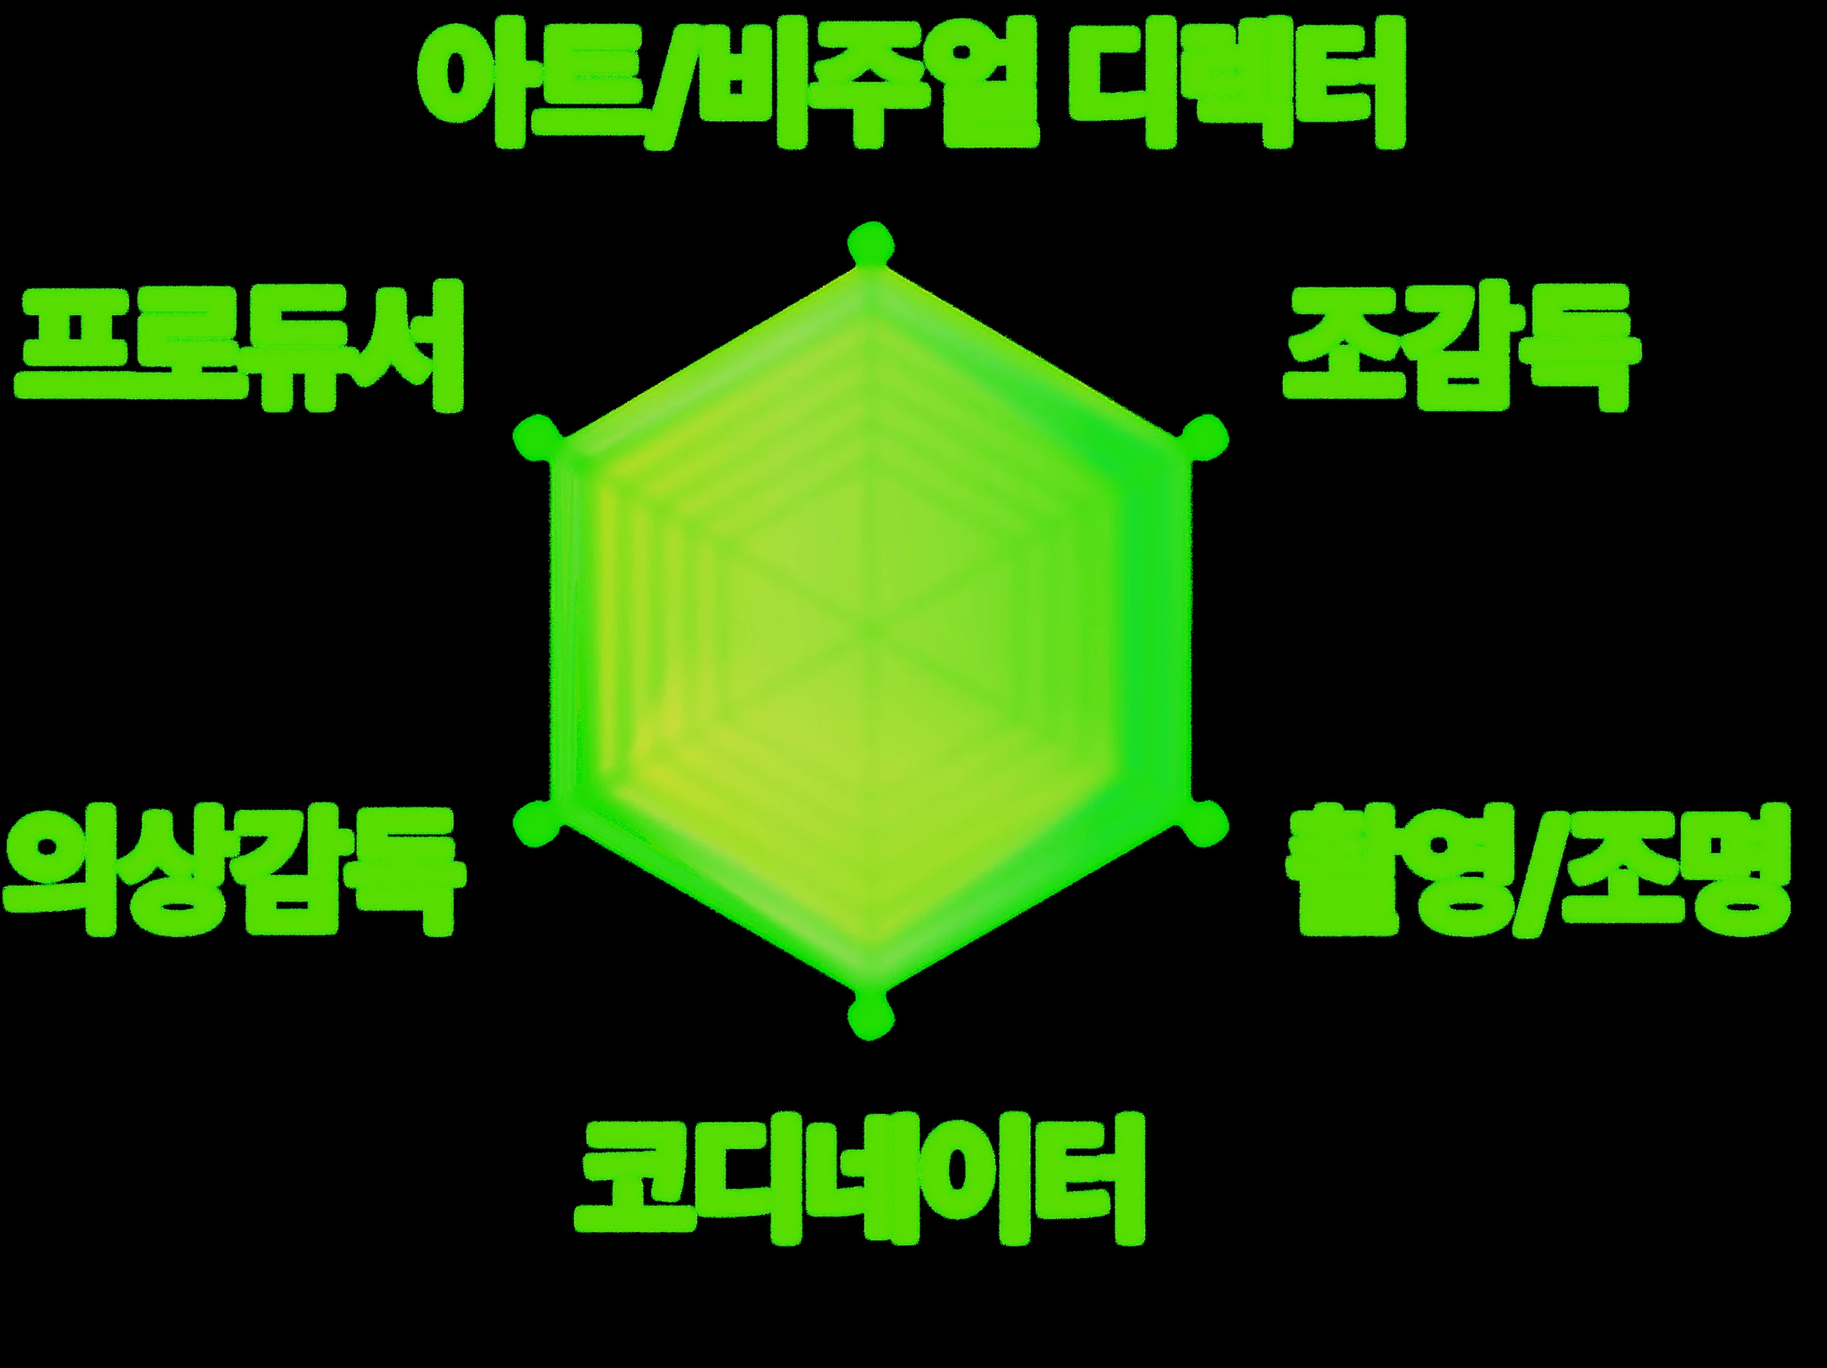
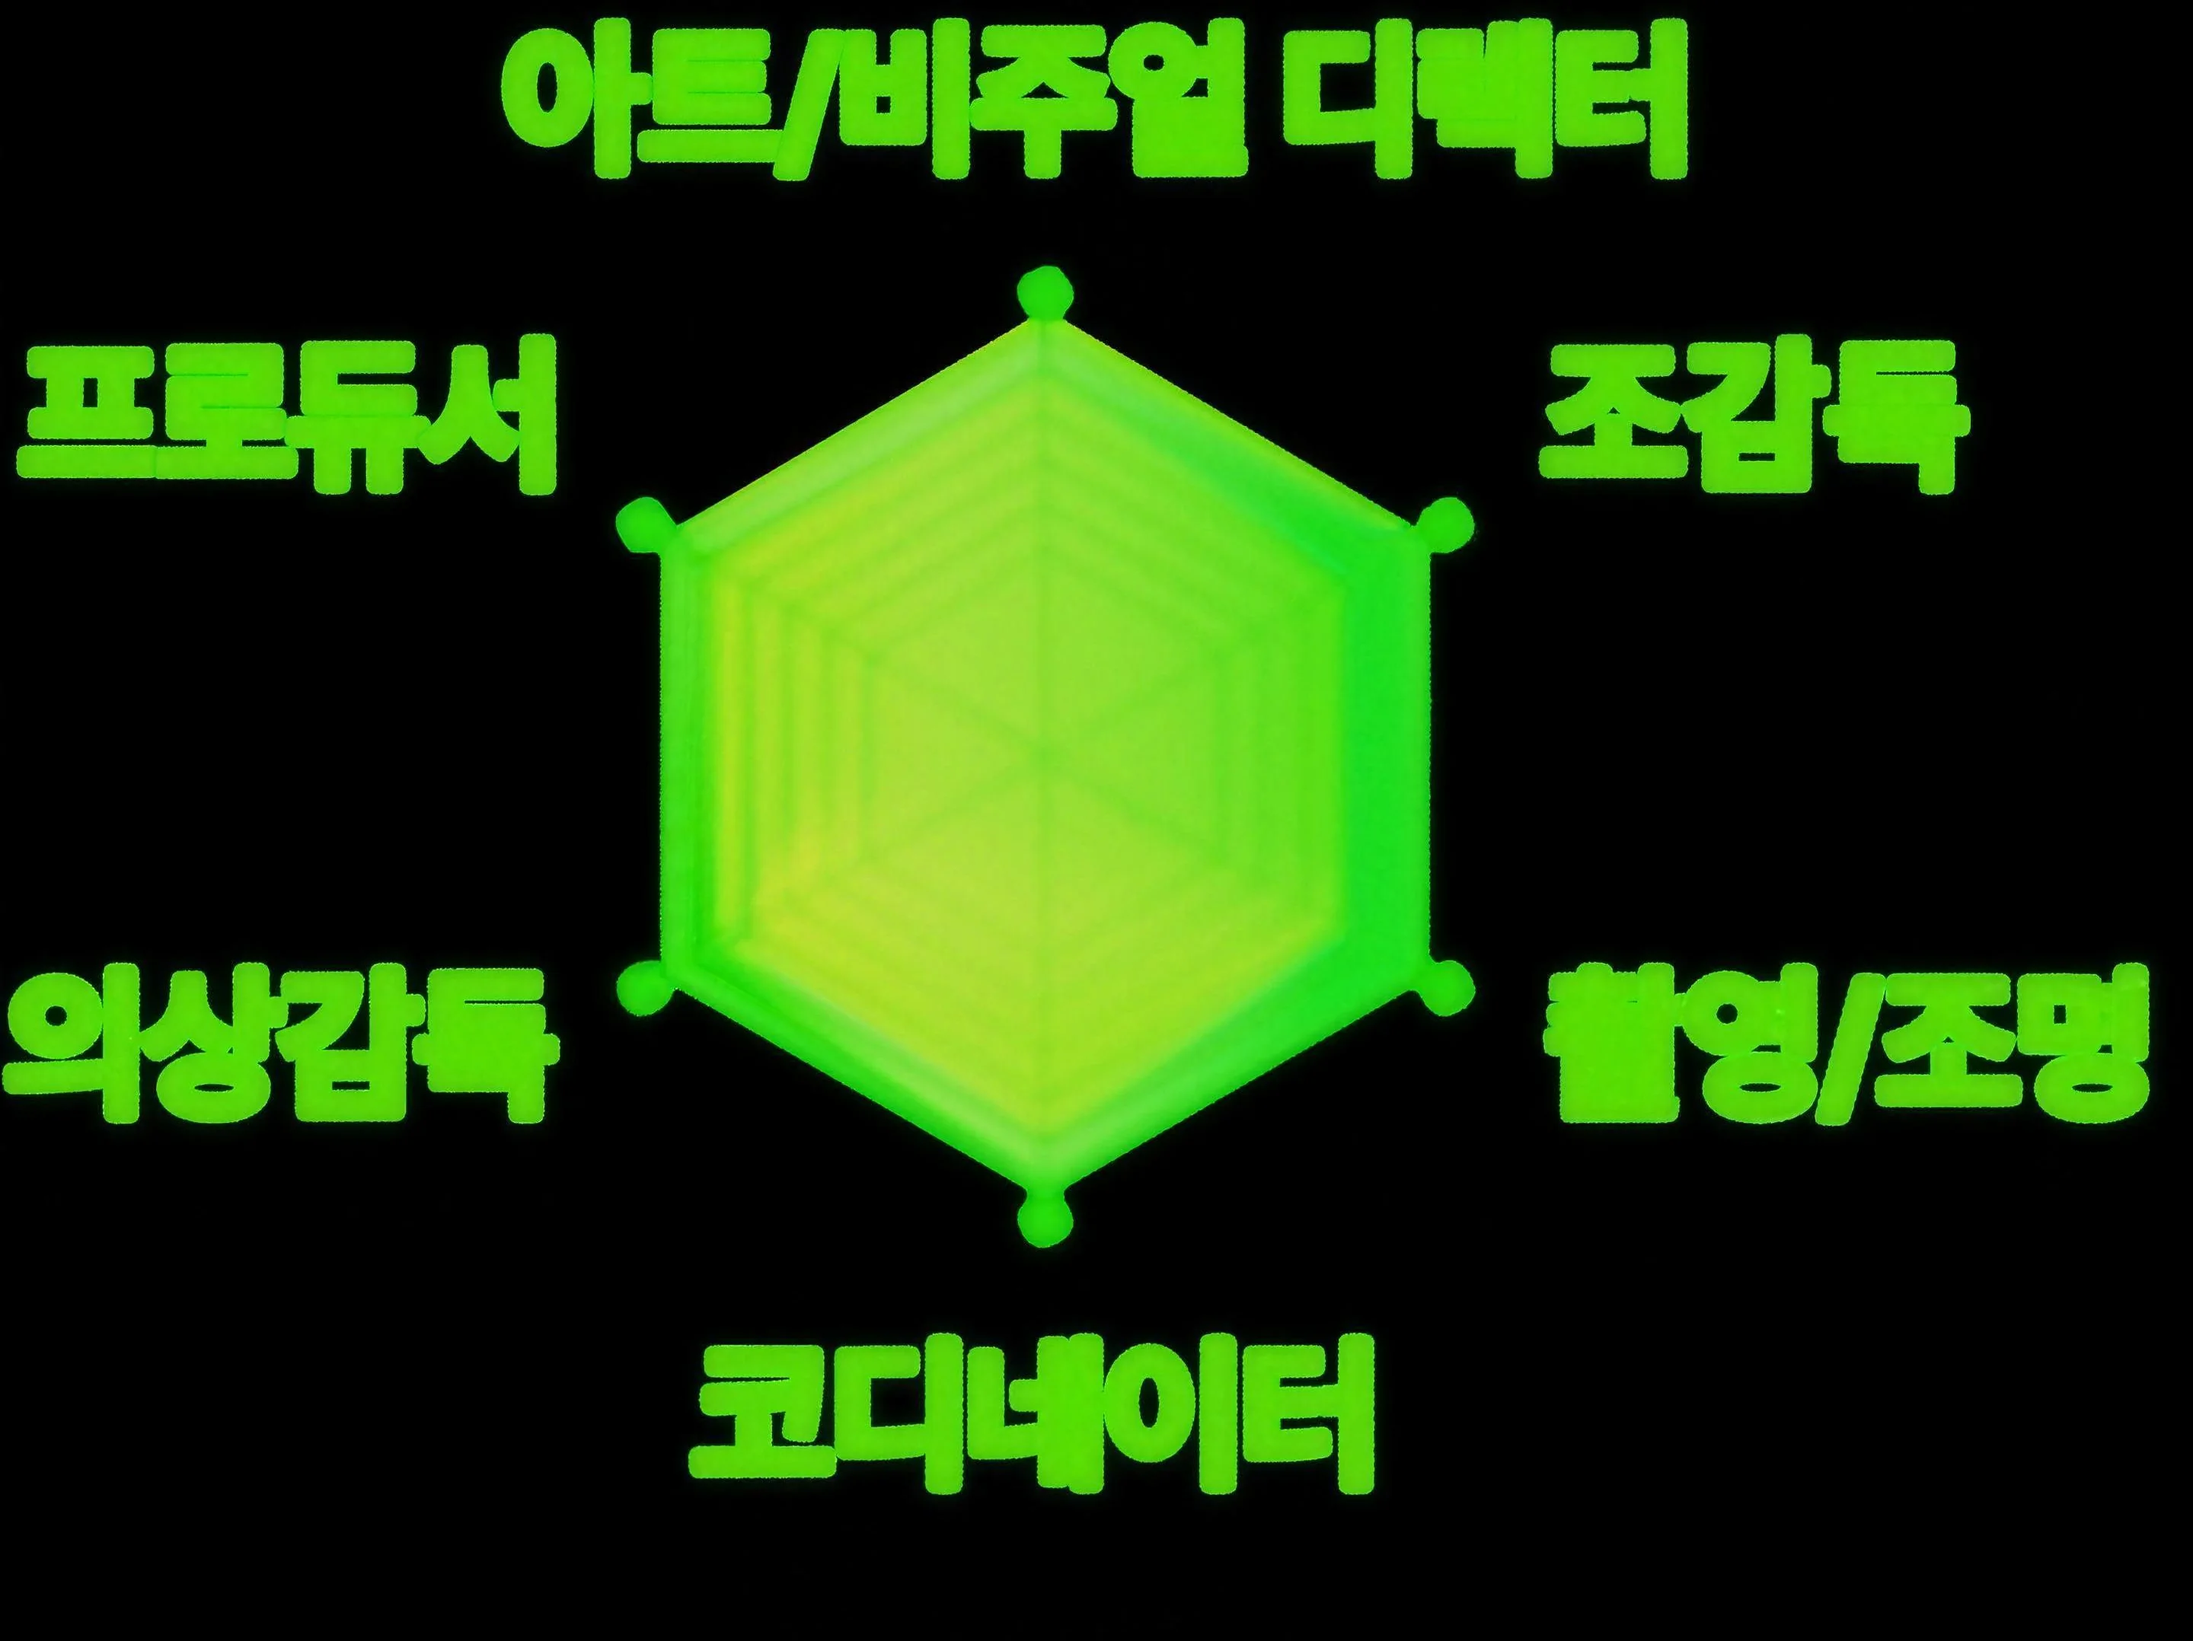
오프라인 — 육각 그래프 화질 개선(AI 업스케일)
원본 업로드 자체가 저해상도라 뭉개져 보였다. 피그마 노드를 3배로 다시 뽑아봤지만
그 노드는 불투명도가 걸려 있어 색이 안 맞았다(밝기만 곱하면 밝은 쪽이 잘리고,
히스토그램을 맞추면 검정 배경이 초록이 된다). 결국 지금 쓰는 파일을 그대로
업스케일하는 쪽이 색을 유지하면서 선이 살아난다. 2400 → 2880.
⚠ width/height 속성이 3222x2412 로 잘못 적혀 있던 것도 바로잡음.

diff --git a/offline.html b/offline.html
@@ -619,7 +619,7 @@ src="https://www.facebook.com/tr?id=771478541518631&ev=PageView&noscript=1"></no
         <li>아트/비주얼 디렉터</li><li>조감독</li><li>촬영/조명</li>
         <li>코디네이터</li><li>의상감독</li><li>프로듀서</li>
       </ul>
-      <img src="assets/img/offline/b5-radar.webp?v=4f580bd7" width="3222" height="2412" loading="lazy"
+      <img src="assets/img/offline/b5-radar.webp?v=3b60c9e8" width="2880" height="2156" loading="lazy"
            alt="정주 감독이 경험한 포지션 육각형 도표 — 아트/비주얼 디렉터, 조감독, 촬영/조명, 코디네이터, 의상감독, 프로듀서">
     </div>
 
